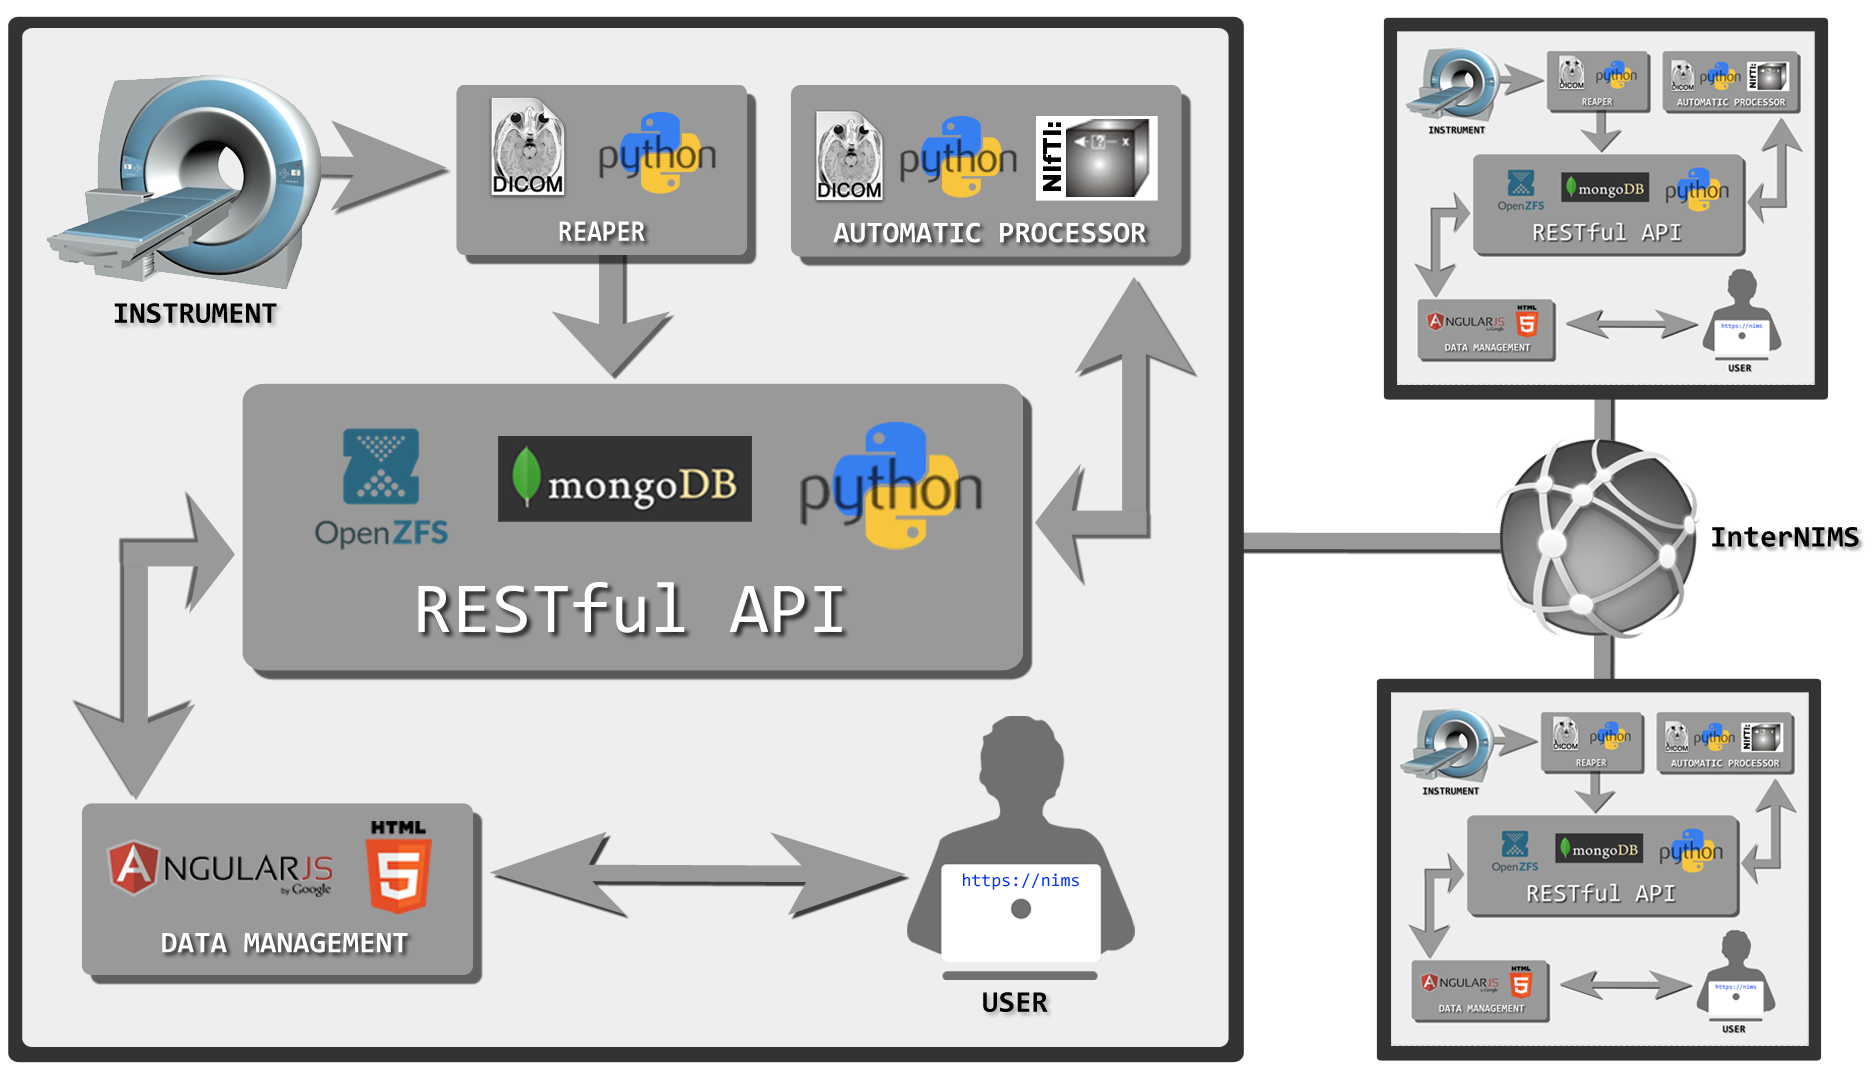
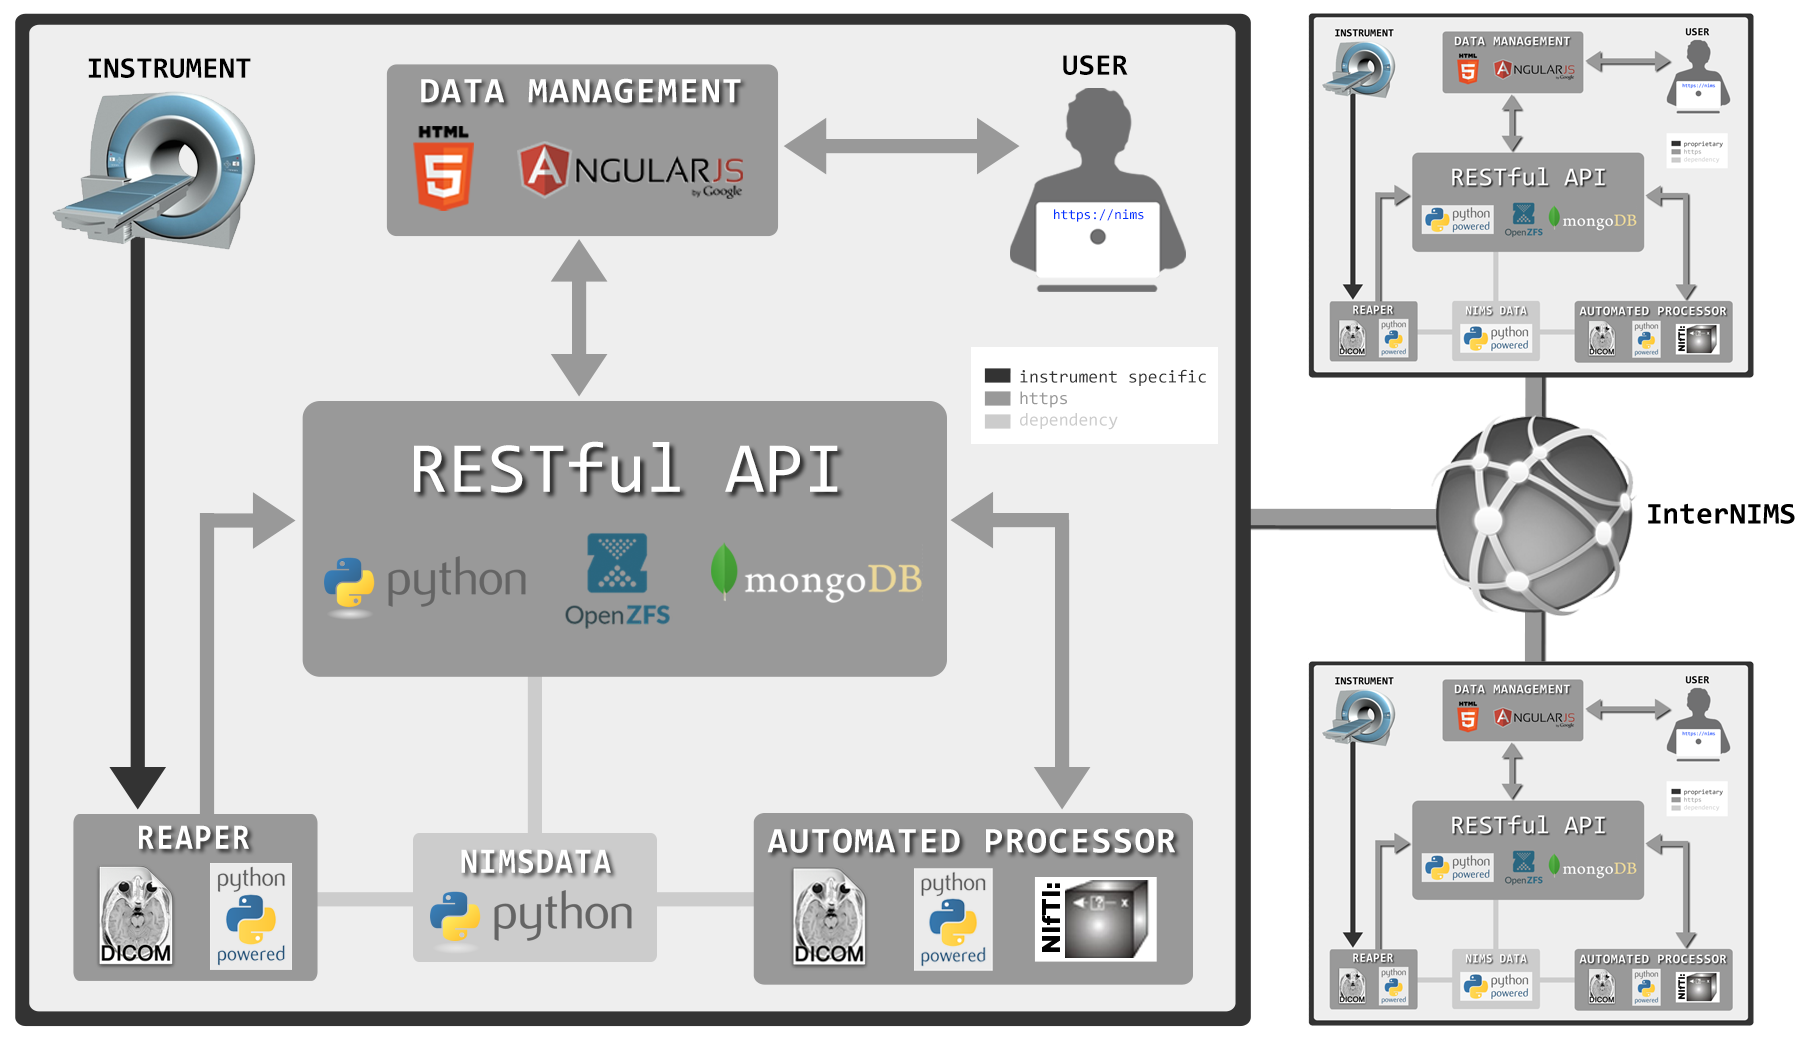
New diagram and map. Added NIMSdata section to text.

diff --git a/index.html b/index.html
@@ -35,24 +35,26 @@
             <img id="diagram" src="images/nims_diagram.png" alt="nims" width="960" border="0" usemap="#Map"/>
             <map name="Map" id="Map">
 
-              <area shape="rect" coords="43,412,244,503" href="#data_management" title="Data are managed through a web interface engineered in AngularJS and HTML5."/>
+              <area shape="rect" coords="207,36,410,123" href="#data_management" title="Data are managed through a web interface engineered in AngularJS and HTML5."/>
 
-              <area shape="rect" coords="405,42,608,136" href="#automatic_processor" alt="Automatic Processor" title="Automatically processes data from the database and makes it available for download through the web UI." />
+              <area shape="rect" coords="396,429,632,523" href="#automated_processor" alt="Automatic Processor" title="Automatically processes data from the database and makes it available for download through the web UI." />
 
+              <area shape="rect" coords="529,24,629,158" href="#user" alt="User" title="Users access data via secure (https) connections to the NIMS web UI." />
 
-              <area shape="rect" coords="462,363,586,524" href="#user" alt="User" title="Users access data via secure (https) connections to the NIMS web UI." />
+              <area shape="rect" coords="29,28,142,144" href="#instrument" alt="Instrument" title="The instrument connects direcly to the reaper. Every byte is captured automatically." />
 
-              <area shape="rect" coords="23,27,169,175" href="#instrument" alt="Instrument" title="The instrument connects direcly to the reaper. Every byte is captured automatically." />
+              <area shape="rect" coords="37,428,169,521" href="#reaper" alt="Reaper" title="The REAPER connects directy, via a secure connection, to the instrument. No user interaction is required to get data in and no byte is lost." />
 
-              <area shape="rect" coords="231,37,388,140" href="#reaper" alt="Reaper" title="The REAPER connects directy, via a secure connection, to the instrument. No user interaction is required to get data in and no byte is lost." />
+              <area shape="rect" coords="161,211,501,359" href="#restful_api" alt="RESTFul API Filesystem and Database" title="NIMS uses a RESTful API and is built using ZFS for redundant storage and MongoDB with dynamic schemas."/>
 
-              <area shape="rect" coords="126,197,525,346" href="#restful_api" alt="RESTFul API Filesystem and Database" title="NIMS uses a RESTful API and is built using ZFS for redundant storage and MongoDB with dynamic schemas."/>
+              <area shape="rect" coords="758,228,950,322" href="#inter_nims" alt="InterNIMS" title="InterNIMS allows sites to communicate with one another securely, permitting remote sites to search, discover and share data with one another." />
 
-              <area shape="rect" coords="765,228,957,322" href="#inter_nims" alt="InterNIMS" title="InterNIMS allows sites to communicate with one another securely, permitting remote sites to search, discover and share data with one another." />
+              <area shape="rect" coords="697,9,924,201" href="#remote_site" alt="Remote Sites" title="Remote sites running their own instance of NIMS can communicate with one another securely, allowing researchers from any site to search and share with those at other sites around the world."/>
 
-              <area shape="rect" coords="710,10,937,202" href="#remote_site" alt="Remote Sites" title="Remote sites running their own instance of NIMS can communicate with one another securely, allowing researchers from any site to search and share with those at other sites around the world."/>
+              <area shape="rect" coords="698,349,925,541" href="#remote_site" alt="Remote Sites" title="Remote sites running their own instance of NIMS can communicate with one another securely, allowing researchers from any site to search and share with those at other sites around the world." />
 
-              <area shape="rect" coords="707,348,934,540" href="#remote_site" alt="Remote Sites" title="Remote sites running their own instance of NIMS can communicate with one another securely, allowing researchers from any site to search and share with those at other sites around the world." />
+              <area shape="rect" coords="219,441,346,509" href="#nimsdata" alt="NIMS Data" title="NIMS Data"/>
+
             </map>
 
           <h3 id="instrument">Instrument <a href="#nims">&#8613;</a></h3>
@@ -70,9 +72,10 @@
 
             <p>The NIMS API (Application Programming Interface) has been engineered to adhere to the tenets of the REST (REpresentational State Transfer) framework and architectural style. The RESTful architectural style "ignores the details of component implementation and protocol syntax in order to focus on the roles of components, the constraints upon their interaction with other components, and their interpretation of significant data elements" <sup><a href="http://en.wikipedia.org/wiki/Representational_state_transfer" target="_blank">ref</a></sup>. </p>
 
-          <h3 id="automatic_processor">Automatic Processor <a href="#nims">&#8613;</a></h3>
+          <h3 id="automated_processor">Automated Processor <a href="#nims">&#8613;</a></h3>
             <p>Once raw data are reaped and sorted into the database they are automatically processed using tools engineered in Python, using various open-source libraries (e.g., <a href="http://code.google.com/p/pydicom/" target="_blank"> pydicom</a>, <a href="http://nipy.org/nibabel/" target="_blank">NiBabel</a>, <a href="http://dcmstack.readthedocs.org/en/v0.6.1/" target="_blank">DcmStack</a>, etc.) . </p>
 
+          <h3 id="nimsdata">NIMSdata <a href="#nims">&#8613;</a></h3>
             <p><a href="http://scitran.github.io/nimsdata">NIMSdata</a>, our custom-engineered, open-source library, takes raw data and performs various processing tasks. For example, raw DICOM data from GE or Siemens scanners are converted to a widely used, compressed, file format -- NIfTI. Quality Assurance metrics are also automatically computed and made available alongside raw data. We have also built upon visualization toolkits to make viewing data within the NIMS UI as simple as clicking a button.</p>
 
             <p>NIMSdata is engineered to be modular -- researchers can design their own purpose-built computational modules that can plug-in to NIMSdata and perform special processing operations.</p>
